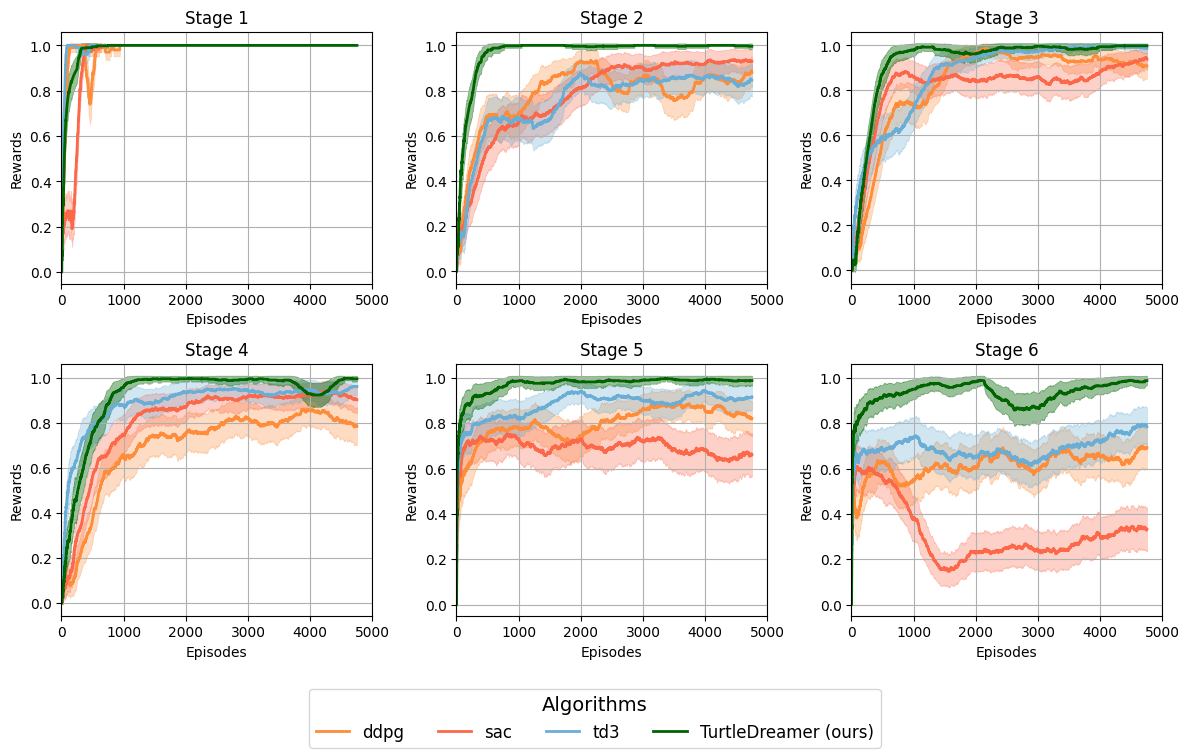
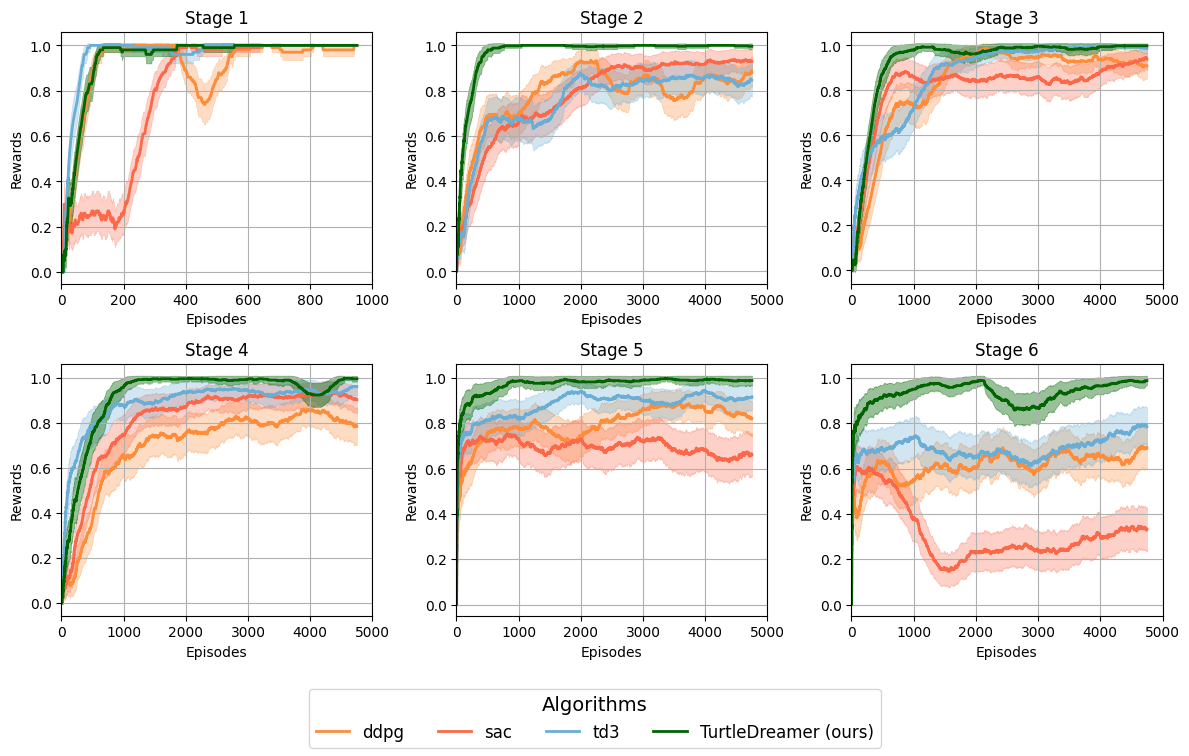
correction on any lidar plot

diff --git a/plt.py b/plt.py
@@ -33,13 +33,15 @@ def plot_learning_curves(agents, stages, lidar):
             data['scores'][:10] = 0.0
             data['scores'] = data['scores'].apply(lambda x: 0 if x == -10 else (1 if x == 100 else x))
             
-            if stage == 1 and (lidar == 10 or _lidar == 0):
+            if stage == 1 and (lidar == 10 or int(_lidar) == 0):
                 window = 100
                 max_episode = 1000
             else: 
                 window = 500
                 max_episode = 5000
-            
+
+             
+
             ma_episodes, std_episodes = moving_average_std(data[['episode', 'scores']], window)
             ma_episodes = ma_episodes[:max_episode]
             std_episodes = std_episodes[:max_episode]
